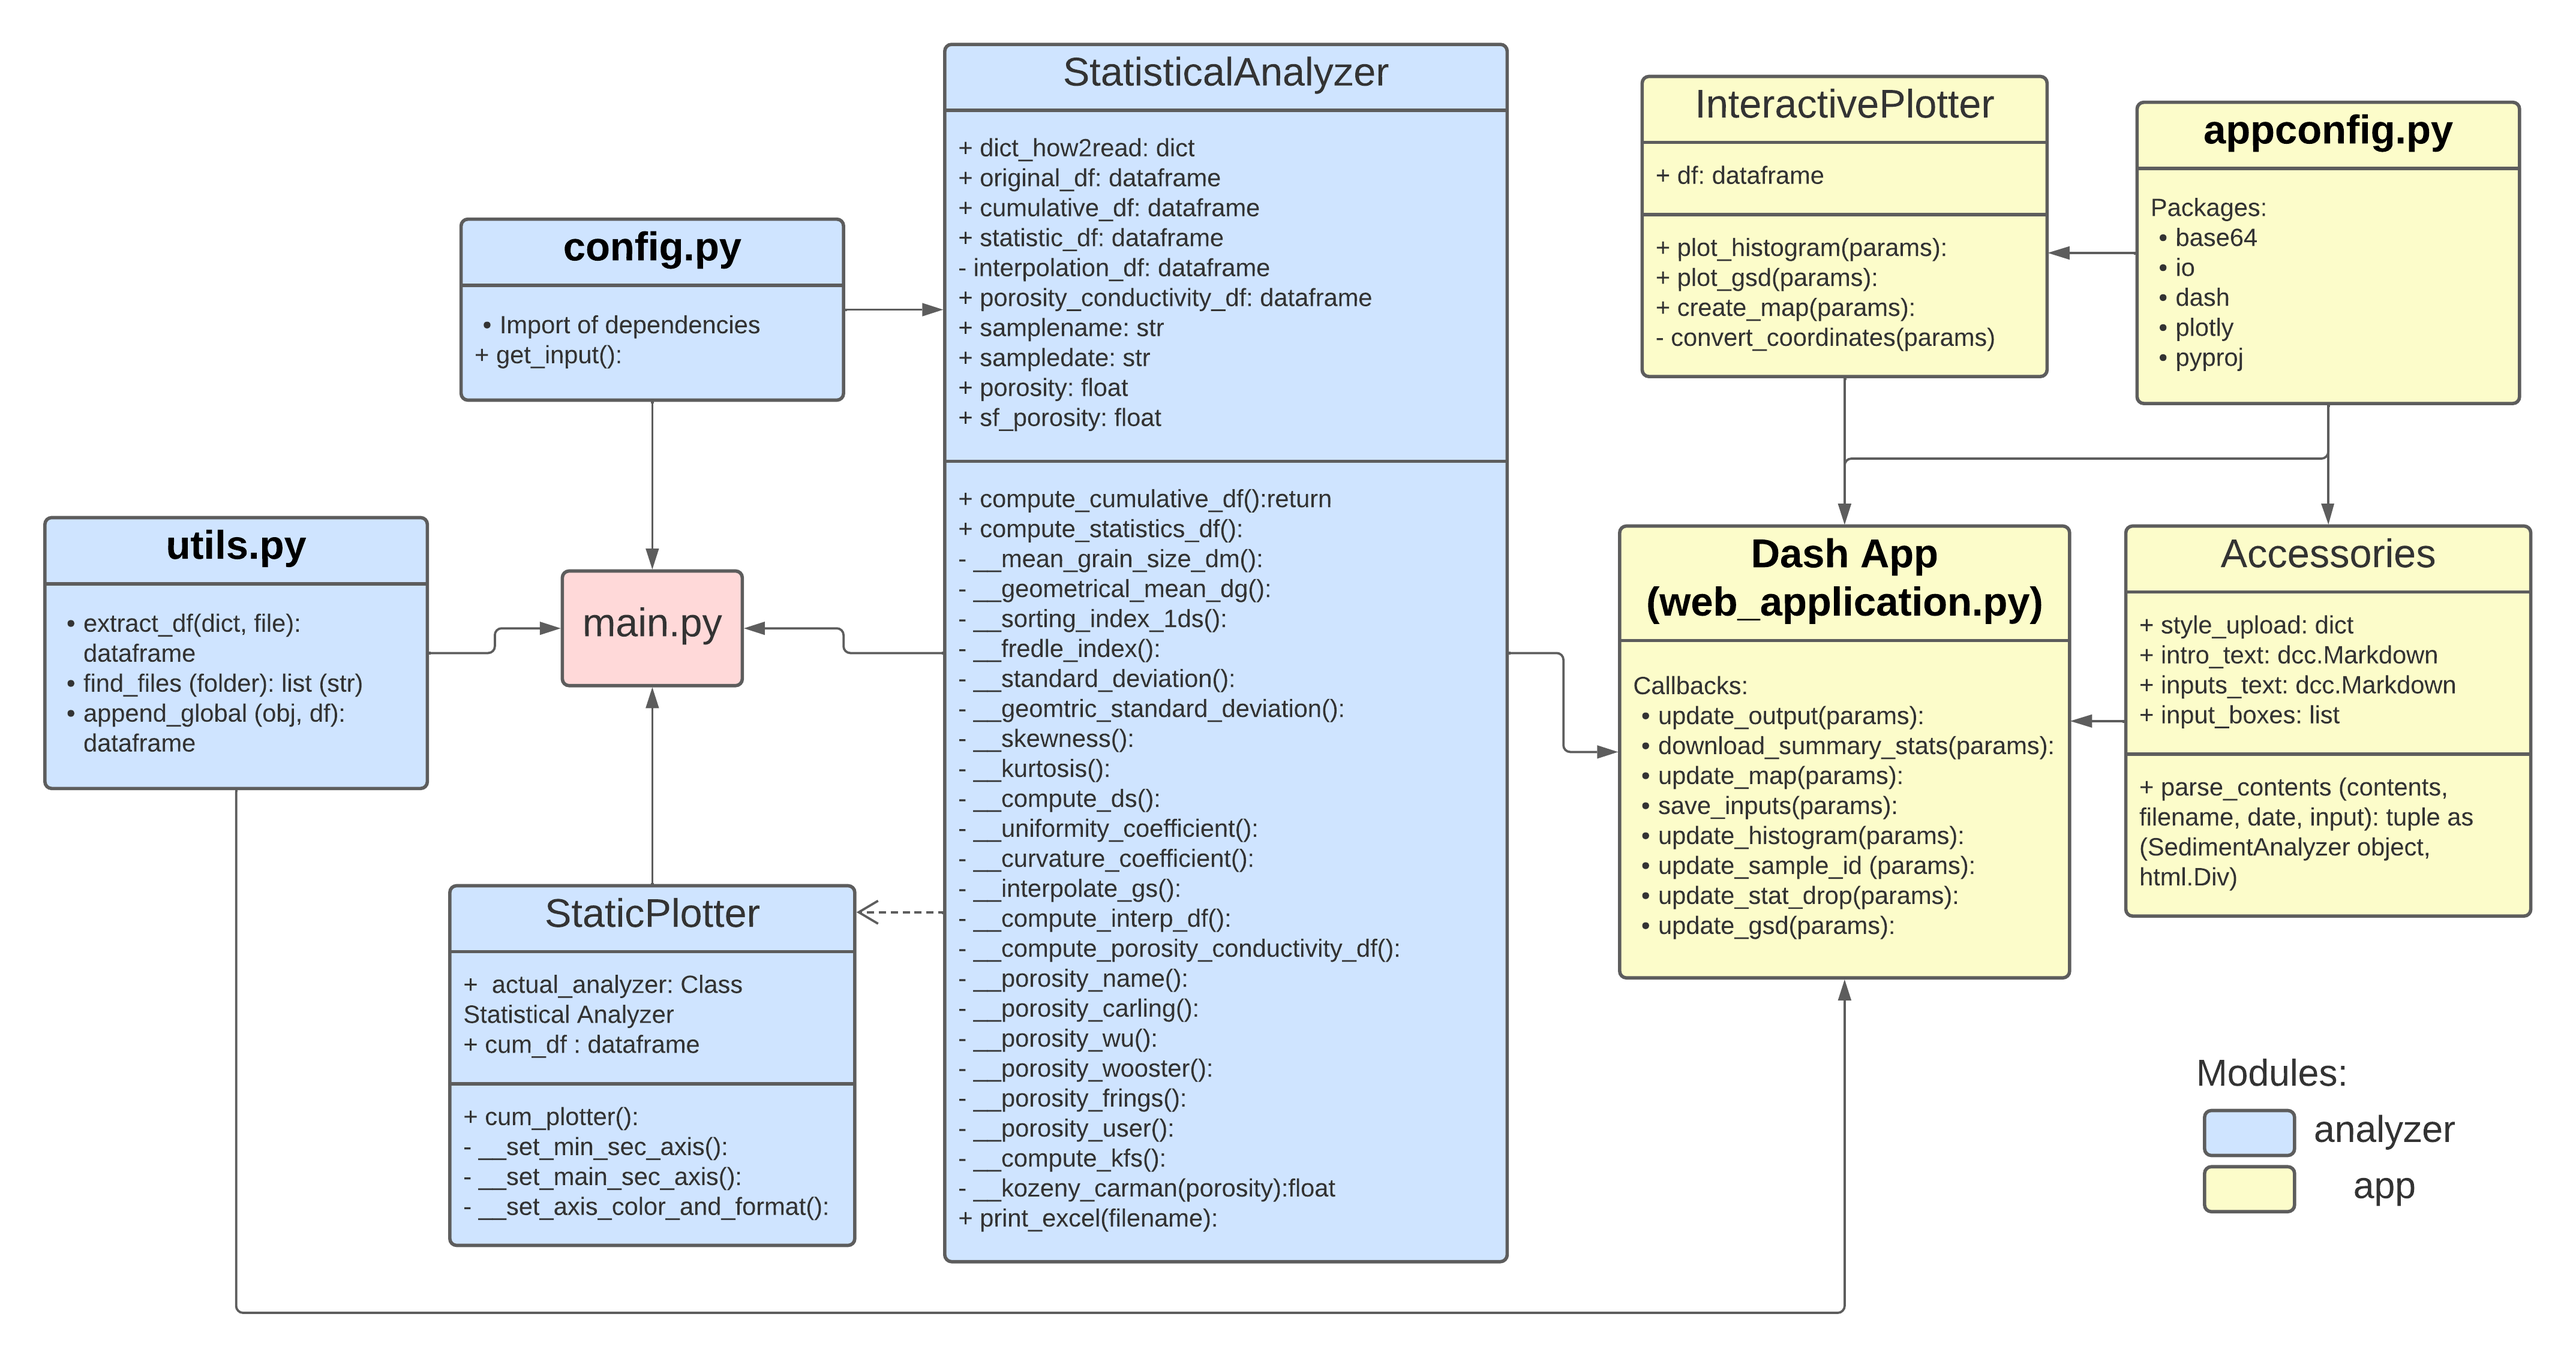
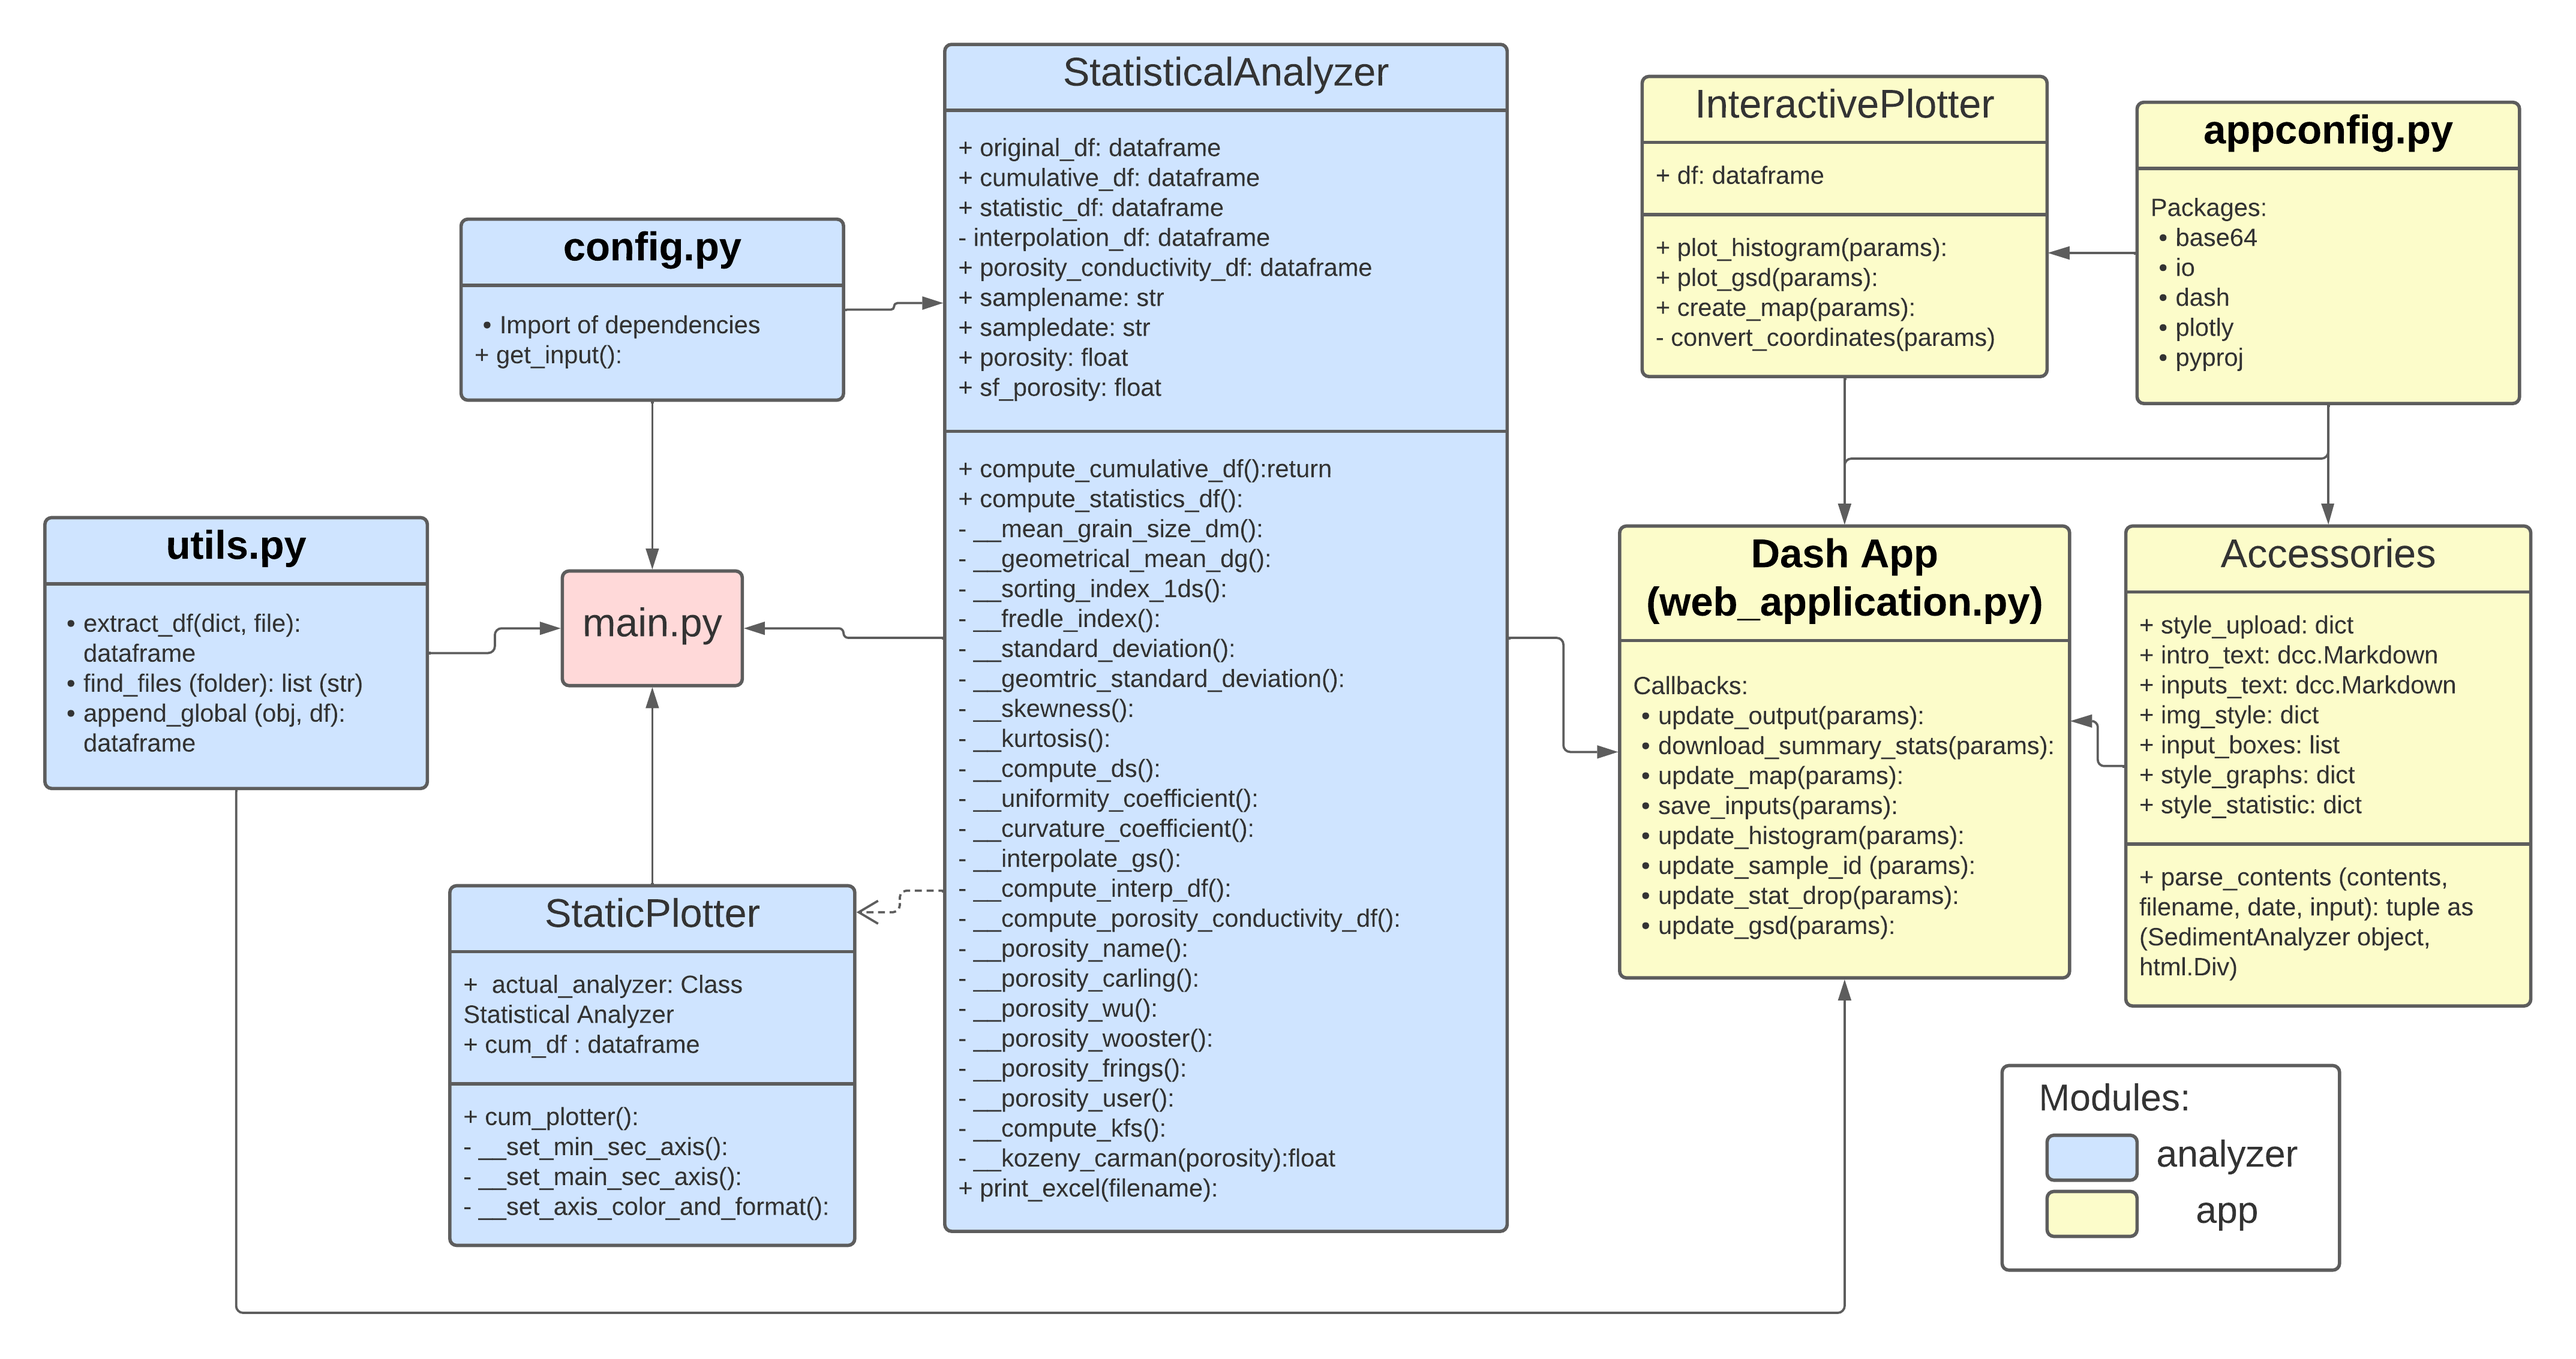
updated docs/attributes/methods

Changed region(s): [[0.3433, 0.0926, 0.5929, 0.9572], [0.8114, 0.5249, 0.9986, 0.7411], [0.7802, 0.7719, 0.9362, 0.9263]]

diff --git a/sedimentanalyst/analyzer/statistical_analyzer.py b/sedimentanalyst/analyzer/statistical_analyzer.py
@@ -13,7 +13,6 @@ class StatisticalAnalyzer:
     and grain size).
 
     Attributes:
-        dict_how2read (dict): dictionary containing the indexes of the relevant information in the excel files.
         original_df (df): dataframe containing in the first column the grain sizes diameters (in mm) and in the second
         column the fraction mass that passes through the corresponding diameter.
         cumulative_df (df): dataframe containing in the first column the grain sizes diameters (in mm) and in the second

diff --git a/sedimentanalyst/app/accessories.py b/sedimentanalyst/app/accessories.py
@@ -14,7 +14,7 @@ class Accessories:
     extensive callouts and parsing of input contents.
 
     Attributes:
-        style-upload (dict): style information for a dropbox component
+        style_upload (dict): style information for a dropbox component
         intro_text (dash.dcc.Markdown.Markdown): markdown test for introducing the app
         inputs_text (dash.dcc.Markdown.Markdown): markdown text for explaining the inputs
         img_style(dict): style information for formatting images
